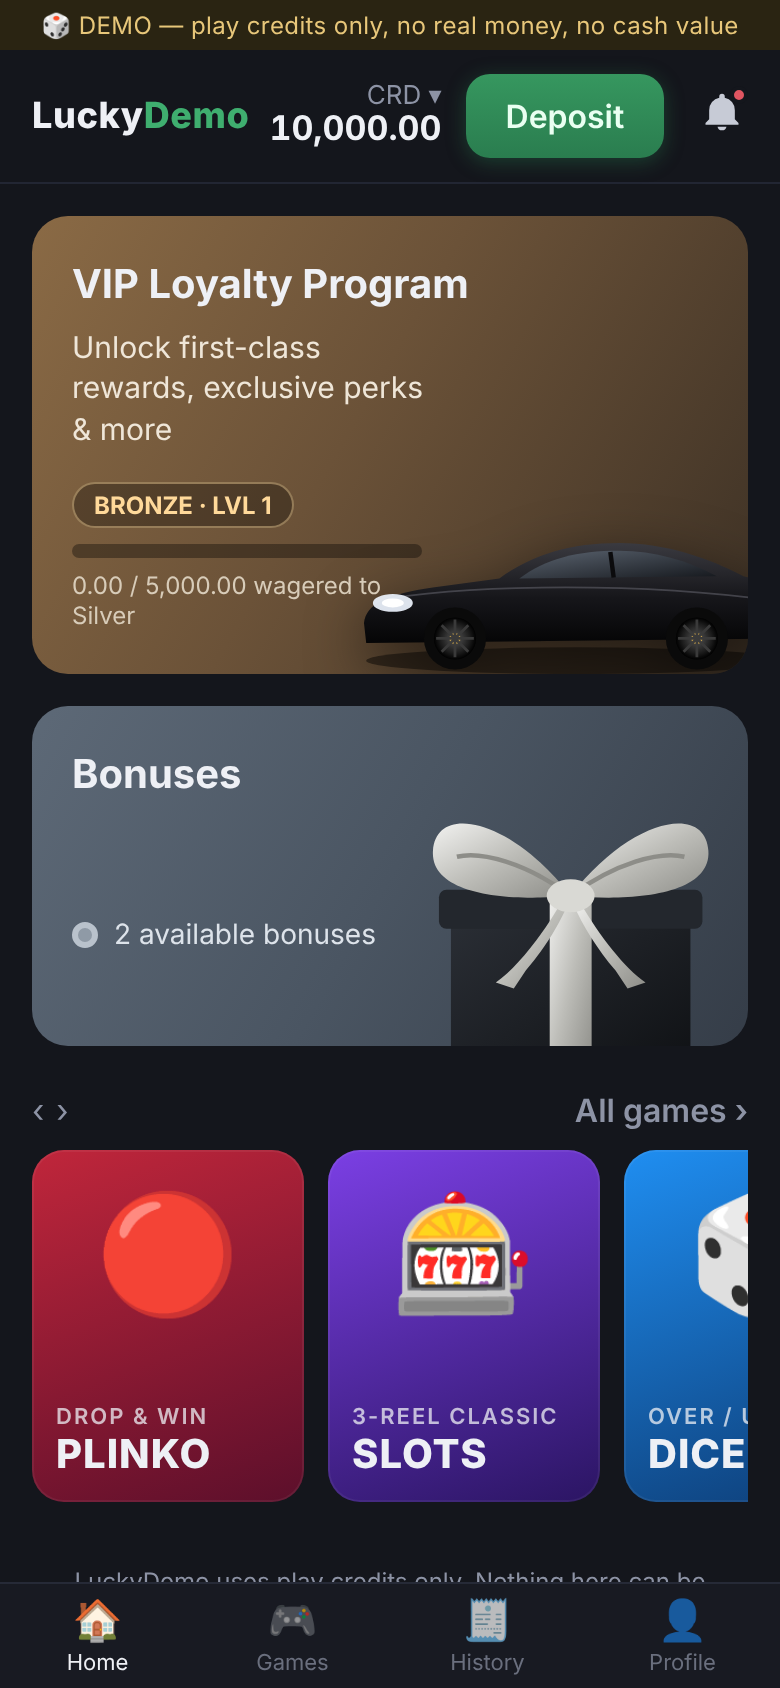
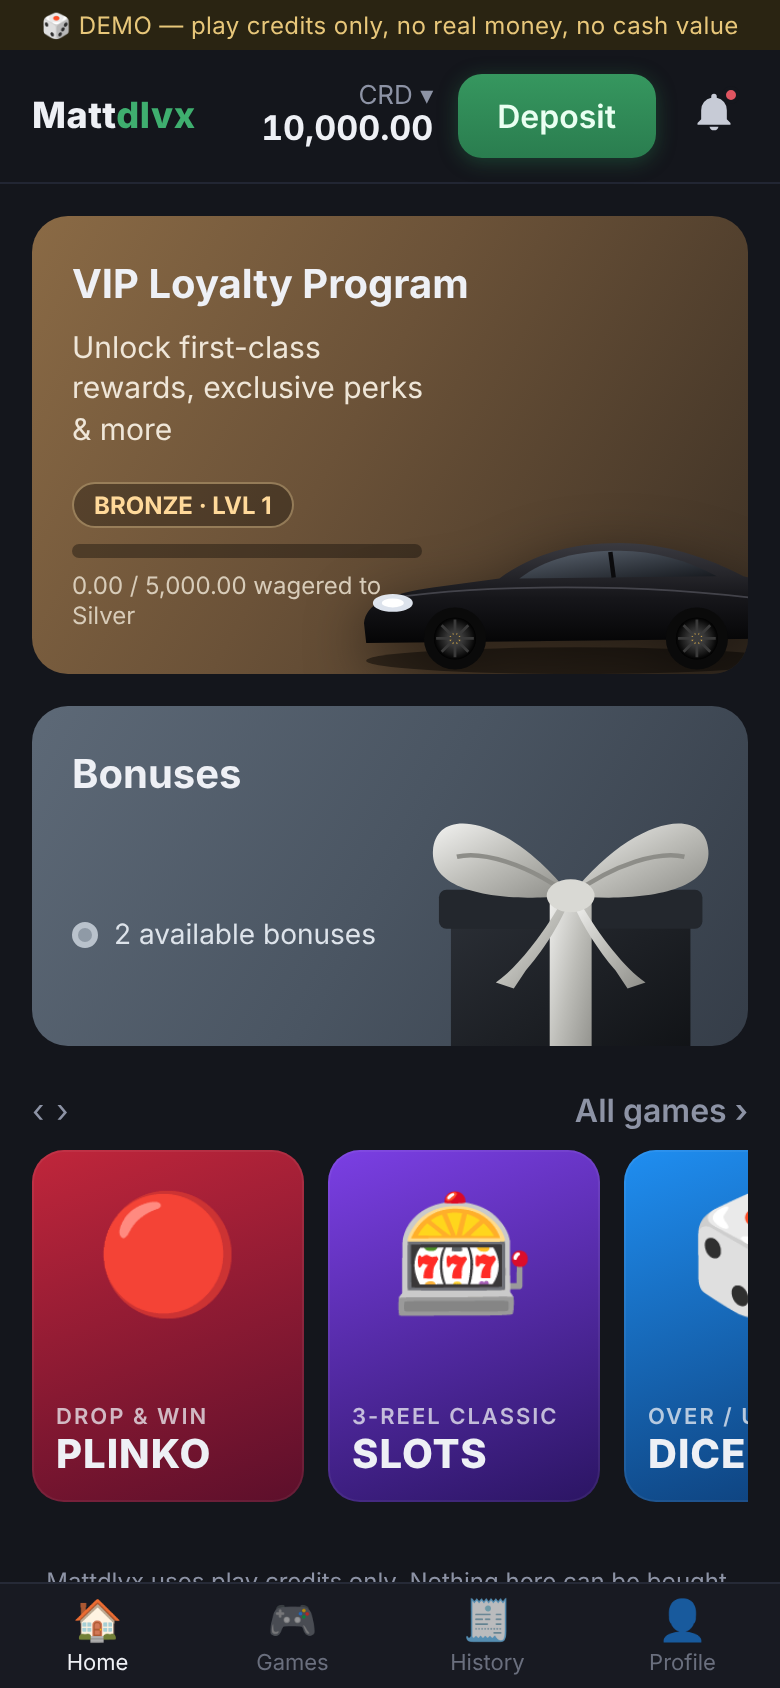
Rename app to Mattdlvx

diff --git a/public/app.js b/public/app.js
@@ -1,4 +1,4 @@
-// LuckyDemo frontend — play credits only.
+// Mattdlvx frontend — play credits only.
 const $ = (s, el = document) => el.querySelector(s);
 const app = $('#app');
 let me = null, config = null;
@@ -65,7 +65,7 @@ const tileHTML = (g) => `<a class="tile t-${g.id}" href="#/game/${g.id}"><span c
 function authView() {
   let mode = 'signup';
   app.innerHTML = `<div class="auth">
-    <h1>Lucky<span>Demo</span></h1>
+    <h1>Matt<span>dlvx</span></h1>
     <p class="sub">A play-money casino demo. New players get 10,000 free credits.<br>Credits have no cash value.</p>
     <div class="panel">
       <div class="tabs"><button data-m="signup" class="on">Sign up</button><button data-m="login">Log in</button></div>
@@ -108,7 +108,7 @@ function homeView() {
   </section>
   <div class="section-head"><div class="arrows"><button id="cl">‹</button><button id="cr">›</button></div><a href="#/games">All games ›</a></div>
   <div class="carousel" id="carousel">${GAMES.map(tileHTML).join('')}</div>
-  <p class="legal">LuckyDemo uses play credits only. Nothing here can be bought, cashed out or exchanged for money.</p>`;
+  <p class="legal">Mattdlvx uses play credits only. Nothing here can be bought, cashed out or exchanged for money.</p>`;
   $('#bonusCard').onclick = openBonuses;
   const c = $('#carousel');
   $('#cl').onclick = () => c.scrollBy({ left: -150, behavior: 'smooth' });

diff --git a/public/index.html b/public/index.html
@@ -4,13 +4,13 @@
 <meta charset="utf-8">
 <meta name="viewport" content="width=device-width, initial-scale=1, viewport-fit=cover">
 <meta name="theme-color" content="#14161c">
-<title>LuckyDemo — Play-Money Casino</title>
+<title>Mattdlvx — Play-Money Casino (Demo)</title>
 <link rel="stylesheet" href="/style.css">
 </head>
 <body>
 <div class="demo-banner">🎲 DEMO — play credits only, no real money, no cash value</div>
 <header id="topbar" class="topbar hidden">
-  <a href="#/" class="logo">Lucky<span>Demo</span></a>
+  <a href="#/" class="logo">Matt<span>dlvx</span></a>
   <div class="wallet">
     <button class="currency" id="currencyBtn" title="Play credits">
       <span class="cur-label"><span id="curCode">CRD</span> ▾</span>

diff --git a/README.md b/README.md
@@ -1,4 +1,4 @@
-# LuckyDemo — Play-Money Casino Demo
+# Mattdlvx — Play-Money Casino Demo
 
 A mobile-first casino-style web app that uses **play credits only**. There is no real money, no payment provider, no withdrawals — credits have no cash value. The "Deposit" button simply grants free demo credits (capped at 5,000 per 24 h).
 
